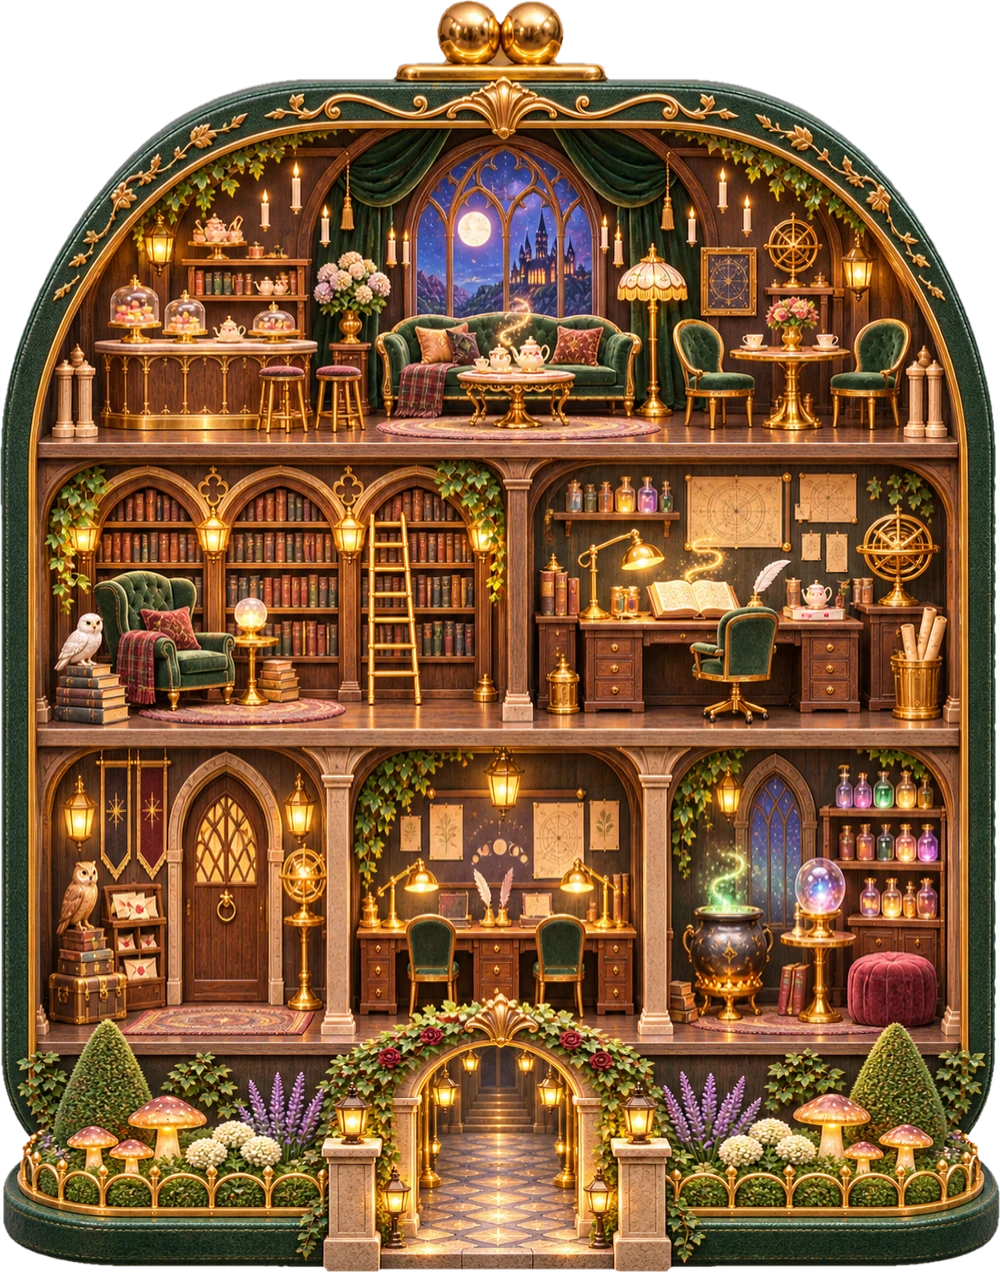
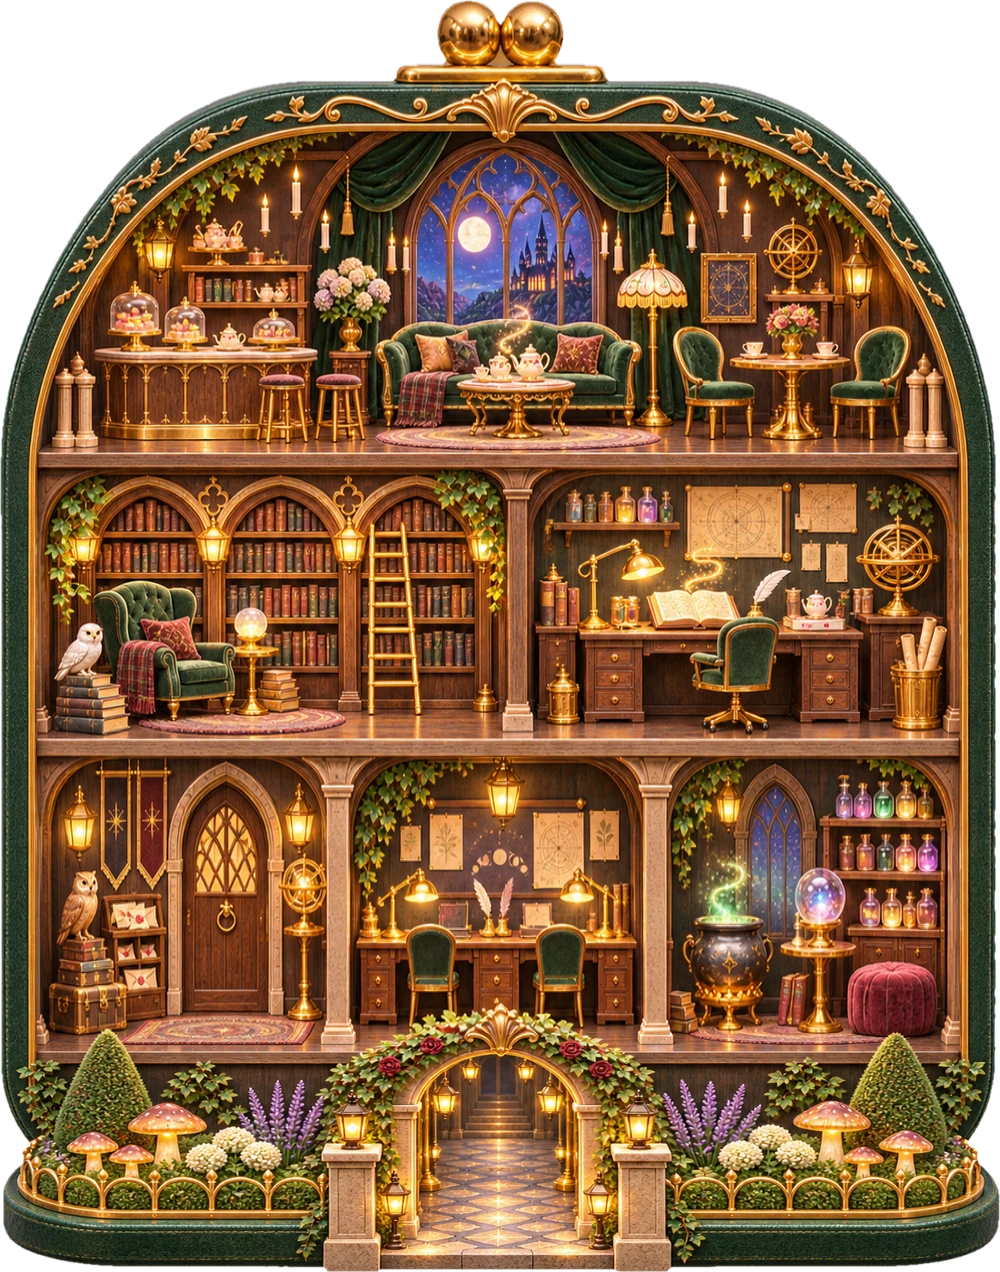
나무·웨딩 하우스: 카펫 중앙을 아바타 발 아래 30에 맞춤
Claude-Session: https://claude.ai/code/session_011wWXPaiuu8PZPFdYFKdKKY

diff --git a/tools/process_assets.py b/tools/process_assets.py
@@ -196,11 +196,11 @@ def skin_house(src, key):
     rgba = trim(rgba)
     rgba = rgba.resize((1000, round(rgba.height * 1000 / rgba.width)), Image.LANCZOS)
     if key in ('wedding', 'wood'):
-        # 그림이 더 길어서 위에서 아래로 전체를 1272에 맞춰 넣어요. 카펫 중앙이 아바타 발 아래 20쯤 (428·710·1022)에 오게
+        # 그림이 더 길어서 위에서 아래로 전체를 1272에 맞춰 넣어요. 카펫 중앙이 아바타 발 아래 30쯤 (438·720·1032)에 오게
         # (원본 1000폭 기준 카펫 중앙: 다락 453 · 2층 765 · 1층 1090)
         H = rgba.height
         src_rug = {'wedding': (453, 765, 1090), 'wood': (405, 685, 945)}[key]  # 원본(1000폭)에서 층 카펫 중앙의 높이
-        pts = [(0, 0), (428, src_rug[0] - 428), (710, src_rug[1] - 710), (1022, src_rug[2] - 1022), (1272, H - 1272)]
+        pts = [(0, 0), (438, src_rug[0] - 438), (720, src_rug[1] - 720), (1032, src_rug[2] - 1032), (1272, H - 1272)]
         return align_floors(rgba.crop((0, 0, 1000, H)).resize((1000, H)), pts, 1272)
     return align_floors(rgba, SKIN_FLOOR_SHIFT[key], 1272)
 
